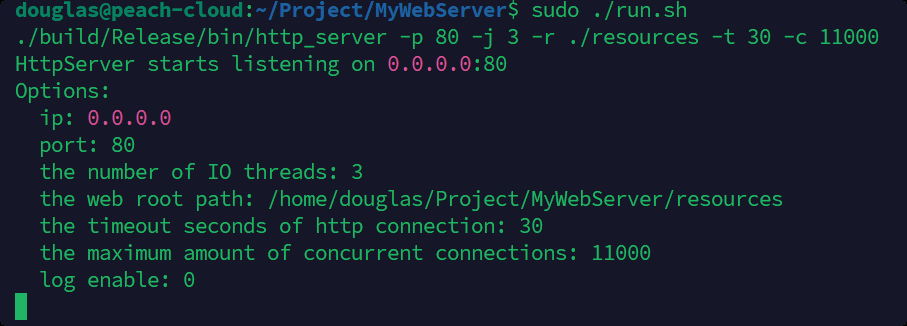
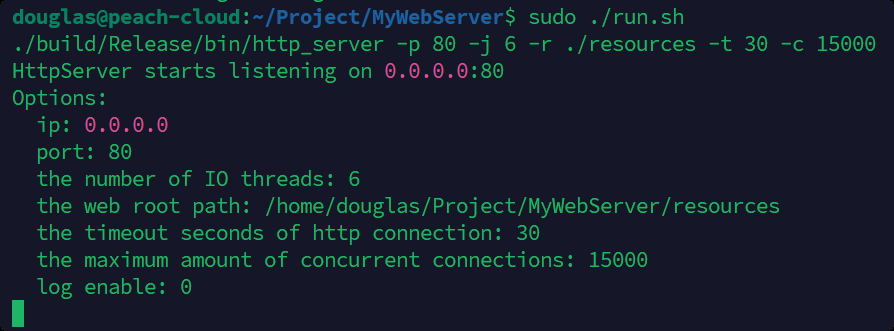
add the result of benchmark in AliCloud and VMware virtual machine.

Changed region(s): [[0.0, 0.0, 0.9966, 0.9202], [0.0, 0.8896, 0.0302, 1.0]]

diff --git a/README.md b/README.md
@@ -203,6 +203,9 @@
 - 笔记本电脑上运行的VMware虚拟机: 8核 8G;   Ubuntu 22.04.3 LTS
 	- (笔记本CPU是 Intel 酷睿 i7-14700HX)
 
+测两个环境是因为云服务器CPU只有2核, 跑压测时wrk本身占一半, 故对WebServer的多线程性能体现不明显。而虚拟机环境下磁盘I/O性能又太差。
+
+
 ## 4.2 测试工具
 
 开源 HTTP 压测工具 wrk——https://github.com/wg/wrk
@@ -223,10 +226,11 @@ wrk使用：
 
 - 排除网络带宽影响，走本地环回地址，访问 `localhost:80`
 - 分别测试 100、1000、10000 并发连接下的性能
-- 共考虑四种情况：(短连接/长连接)  x   (有/无磁盘IO)
-	- 为确定磁盘I/O的影响，设置了一个特殊URL `/benchmark`，其将直接回发 "Hello Word!" 消息体，不请求文件；
-	- 请求 `/test.txt` 时，将访问磁盘上资源路径下的 `resources/test.txt` 文件，以其作为消息体回传。（该文件内容仅为  `"This is a test file."`）
-
+- 为确认性能影响因素, 共考虑了六种情况 :  (短连接/长连接) , (有/无磁盘IO),  消息体大小
+	1. 为确定磁盘I/O的影响，请求 `/benchmark` 时将直接回发 "Hello Word!" 消息体，不请求文件；
+	2. 为验证程序层面的TCP发送缓冲区交付能力, 请求 `/benchmark-5KB` 时将直接回发 5KB 的消息体, 不请求文件.
+	3. 请求 `/test.txt` 时，将访问磁盘上资源路径下的 `resources/test.txt` 文件，以其作为消息体回传。
+	（文件内容为  `"This is a test file."`, 共20字节）
 
 
 ### 4.3.2 服务器运行参数
@@ -234,6 +238,7 @@ wrk使用：
 云服务器环境下: 
 
 <img src="./assets/README.assets/image-20250319223243018.png" alt="image-20250319223243018" width="60%" />
+
 
 <br>
 
@@ -263,39 +268,82 @@ wrk使用：
 
 ## 4.4 测试结果（QPS）
 
+### 4.4.1 阿里云服务器环境
+
+阿里云服务器 ECS：2核 2G； Ubuntu 22.04.4 LTS
+
+WebServer 共 4 线程: 1 主线程 + 3 个IO线程
 
 | 连接类型 | 磁盘I/O | 消息体大小 | 100 并发连接 (60s) | 1000 并发连接 (60s) | 10000 并发连接(10s) |
 | -------- | ------- | ---------- | ------------------ | ------------------- | ------------------- |
-| 短连接   | ×       | 12B        | 2 W                | **1.95 W**          | 1.69 W              |
-| 短连接   | ×       | **5KB**    |                    |                     |                     |
-| 短连接   | √       | 20B        | 1.3 W              | 1.3 W               | 1.24 W              |
-| 长连接   | ×       | 12B        | 9.8 W              | **8.8 W**           | 7.1 W               |
-| 短连接   | ×       | **5KB**    |                    |                     |                     |
-| 长连接   | √       | 20B        | 3 W                | 2.8 W               | 2.7 W               |
+| 短连接   | ×       | 12B        | 2 W                | 1.95 W              | 1.65 W              |
+| 短连接   | ×       | **5KB**    | **1.89 W**         | **1.67 W**          | **1.46 W**          |
+| 短连接   | √       | 20B        | 1.39 W             | 1.3 W               | 1.11 W              |
+| 长连接   | ×       | 12B        | 9.89 W             | 8.8 W               | 6.8 W               |
+| 长连接   | ×       | **5KB**    | **8.79 W**         | **7.23 W**          | **6.28 W**          |
+| 长连接   | √       | 20B        | 3 W                | 2.8 W               | 2.69 W              |
 
+说明：
 
+- 5KB消息体下, 维持1000并发连接时, 短连接QPS 1.67W, 长连接 QPS 7.23W, 约为前者4倍。
 
 <br>
 
-100 并发连接 60s: 
+### 4.4.2 虚拟机环境
+
+笔记本电脑上运行的VMware虚拟机: 8核 8G;   Ubuntu 22.04.3 LTS  
+(笔记本CPU是 Intel 酷睿 i7-14700HX)
+
+ WebServer 共 7 线程: 1 主线程 + 6 个IO线程
+
+| 连接类型 | 磁盘I/O | 消息体大小 | 100 并发连接 (60s) | 1000 并发连接 (60s) | 10000 并发连接(10s) |
+| -------- | ------- | ---------- | ------------------ | ------------------- | ------------------- |
+| 短连接   | ×       | 12B        | 4.62 W             | 6.97 W              | 6.88 W              |
+| 短连接   | ×       | **5KB**    | **4.64 W**         | **7.14 W**          | **6.29 W**          |
+| 短连接   | √       | 20B        | 1 W                | 1 W                 | 1.3 W               |
+| 长连接   | ×       | 12B        | 22 W               | 58 W                | 36 W                |
+| 长连接   | ×       | **5KB**    | **21.8 W**         | **46.8 W**          | **28.6 W**          |
+| 长连接   | √       | 20B        | 1.8 W              | 1.96 W              | 1.7 W               |
+
+说明：
+
+- 5KB消息体下, 维持1000并发连接时, 短连接QPS 7.4W, 长连接 QPS 46.8W, 约为前者6.5倍。
+- 虚拟机上，磁盘I/O性能极低, 带磁盘I/O时 QPS 均仅有1W+
+
+<br>
+
+
+### 4.4.3 图片附录
+
+压测运行结果的截图如下，各测试场景下所有请求均成功, wrk未报告失败, 故上表中QPS测试结果有效.
+
+##### 阿里云服务器环境 100 并发连接 60s: 
 
 <img src="./assets/README.assets/image-20250319232130174.png" alt="image-20250319232130174" width="70%" />
 
-<br>
-
-1000 并发连接 60s:
+##### 阿里云服务器环境 1000 并发连接 60s:
 
 <img src="./assets/README.assets/image-20250319221533423.png" alt="image-20250319221533423" width="70%" />
 
-<br>
 
-10000 并发连接 60s: 
+##### 阿里云服务器环境 10000 并发连接 10s: 
 
 <img src="./assets/README.assets/image-20250319232124506.png" alt="image-20250319232124506" width="70%" />
 
-<br>
-<br>
+##### 虚拟机环境 100 并发连接 60s: 
 
+<img src="./assets/README.assets/image-20250320175522969.png" alt="image-20250320175522969" width="70%" />
+
+##### 虚拟机环境 1000 并发连接 60s:
+
+<img src="./assets/README.assets/image-20250320175532956.png" alt="image-20250320175532956" width="70%" />
+
+##### 虚拟机环境 10000 并发连接 10s: 
+
+<img src="./assets/README.assets/image-20250320175541785.png" alt="image-20250320175541785" width="70%" />
+
+<br>
+<br>
 
 # 5. 致谢
 
@@ -303,4 +351,4 @@ wrk使用：
 - 感谢 [@markpartice](https://github.com/markparticle/WebServer)，项目路径下的 `resources` 文件取自其项目, 也曾学习其实现。
 - 感谢 [@qinguoyi](https://github.com/qinguoyi/TinyWebServer), [@linyacool](https://github.com/linyacool/WebServer/), [@hanAndHan](https://github.com/hanAndHan/HttpServer) 等前人的工作, 让初学者能够较快了解WebServer的功能与背后原理, 易于模仿实践入门。
 
-初期阶段曾向多个 WebServer 小项目学习, 最后转向了muduo。 
+初期阶段曾向多个 WebServer 小项目学习, 最后转向了muduo, 再次感谢muduo。
